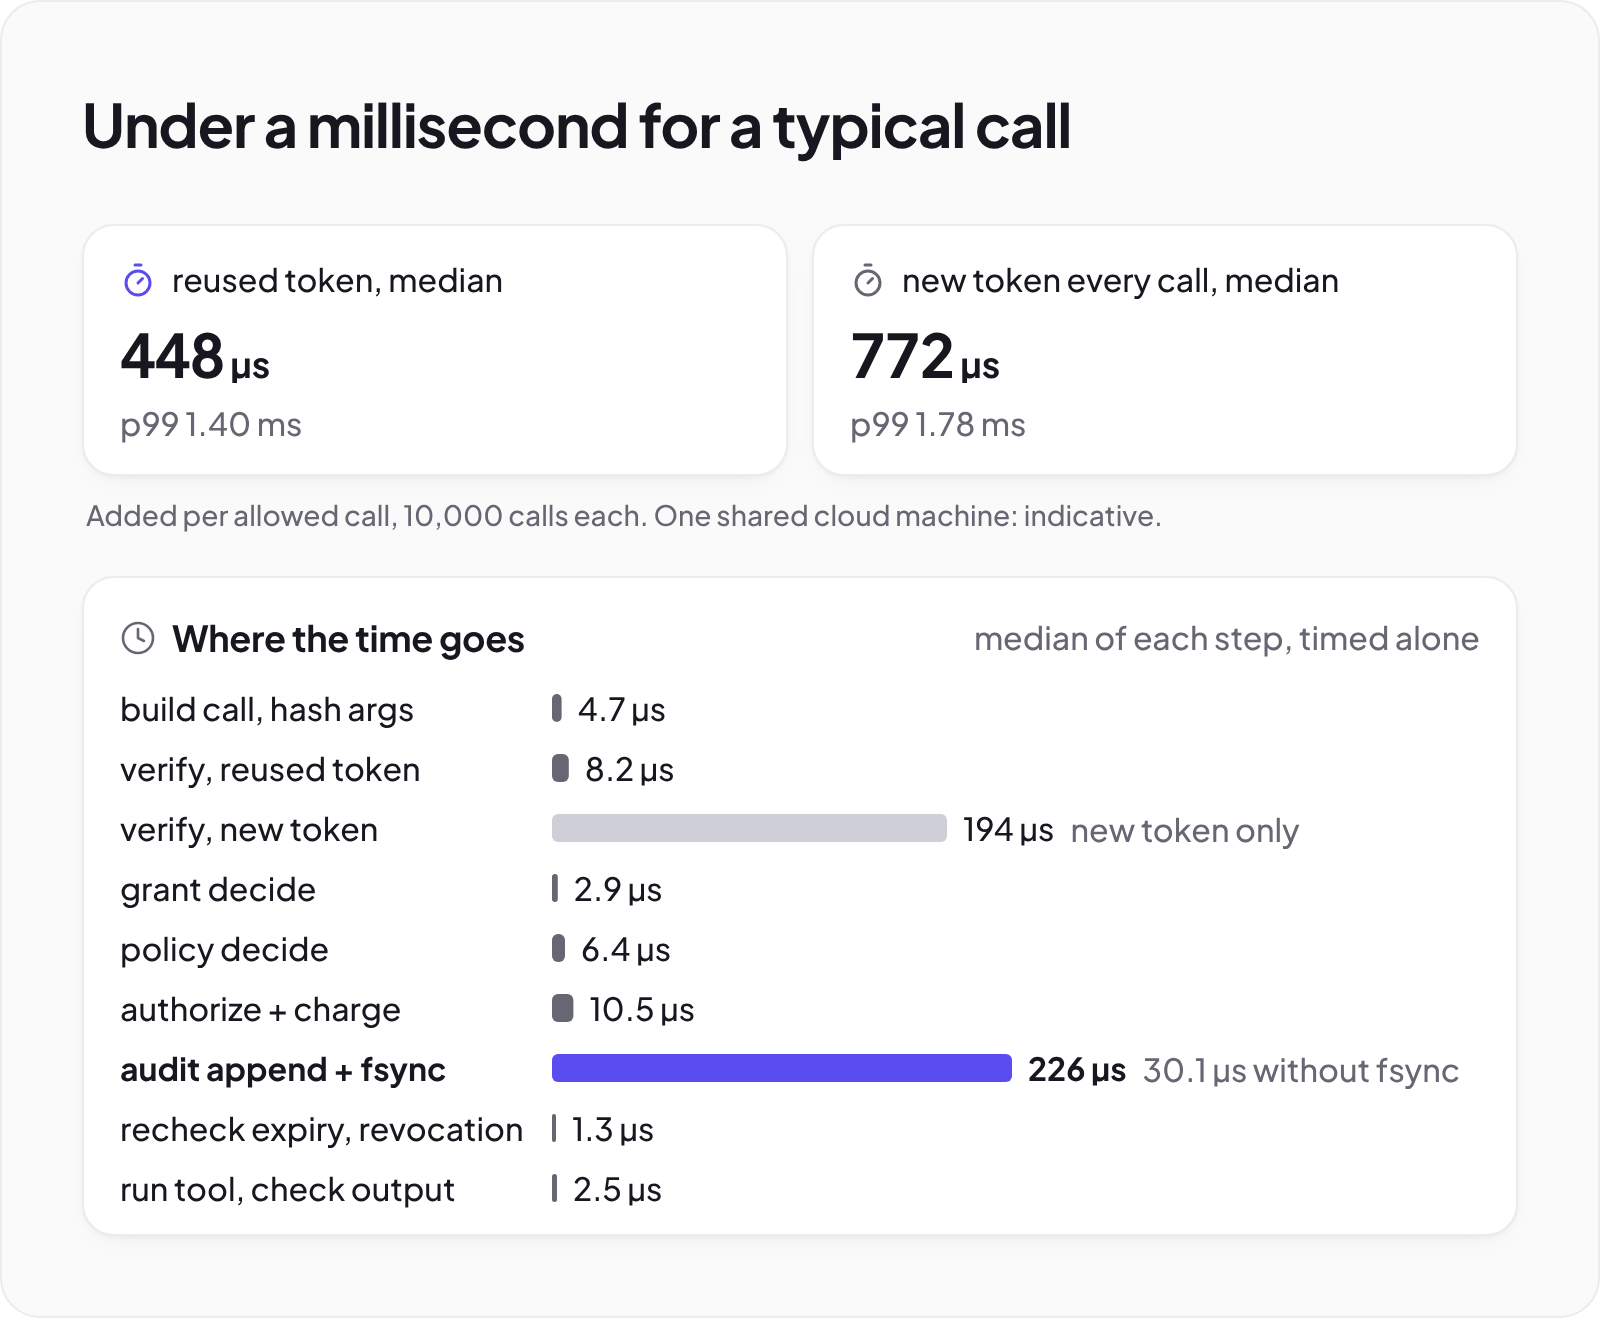
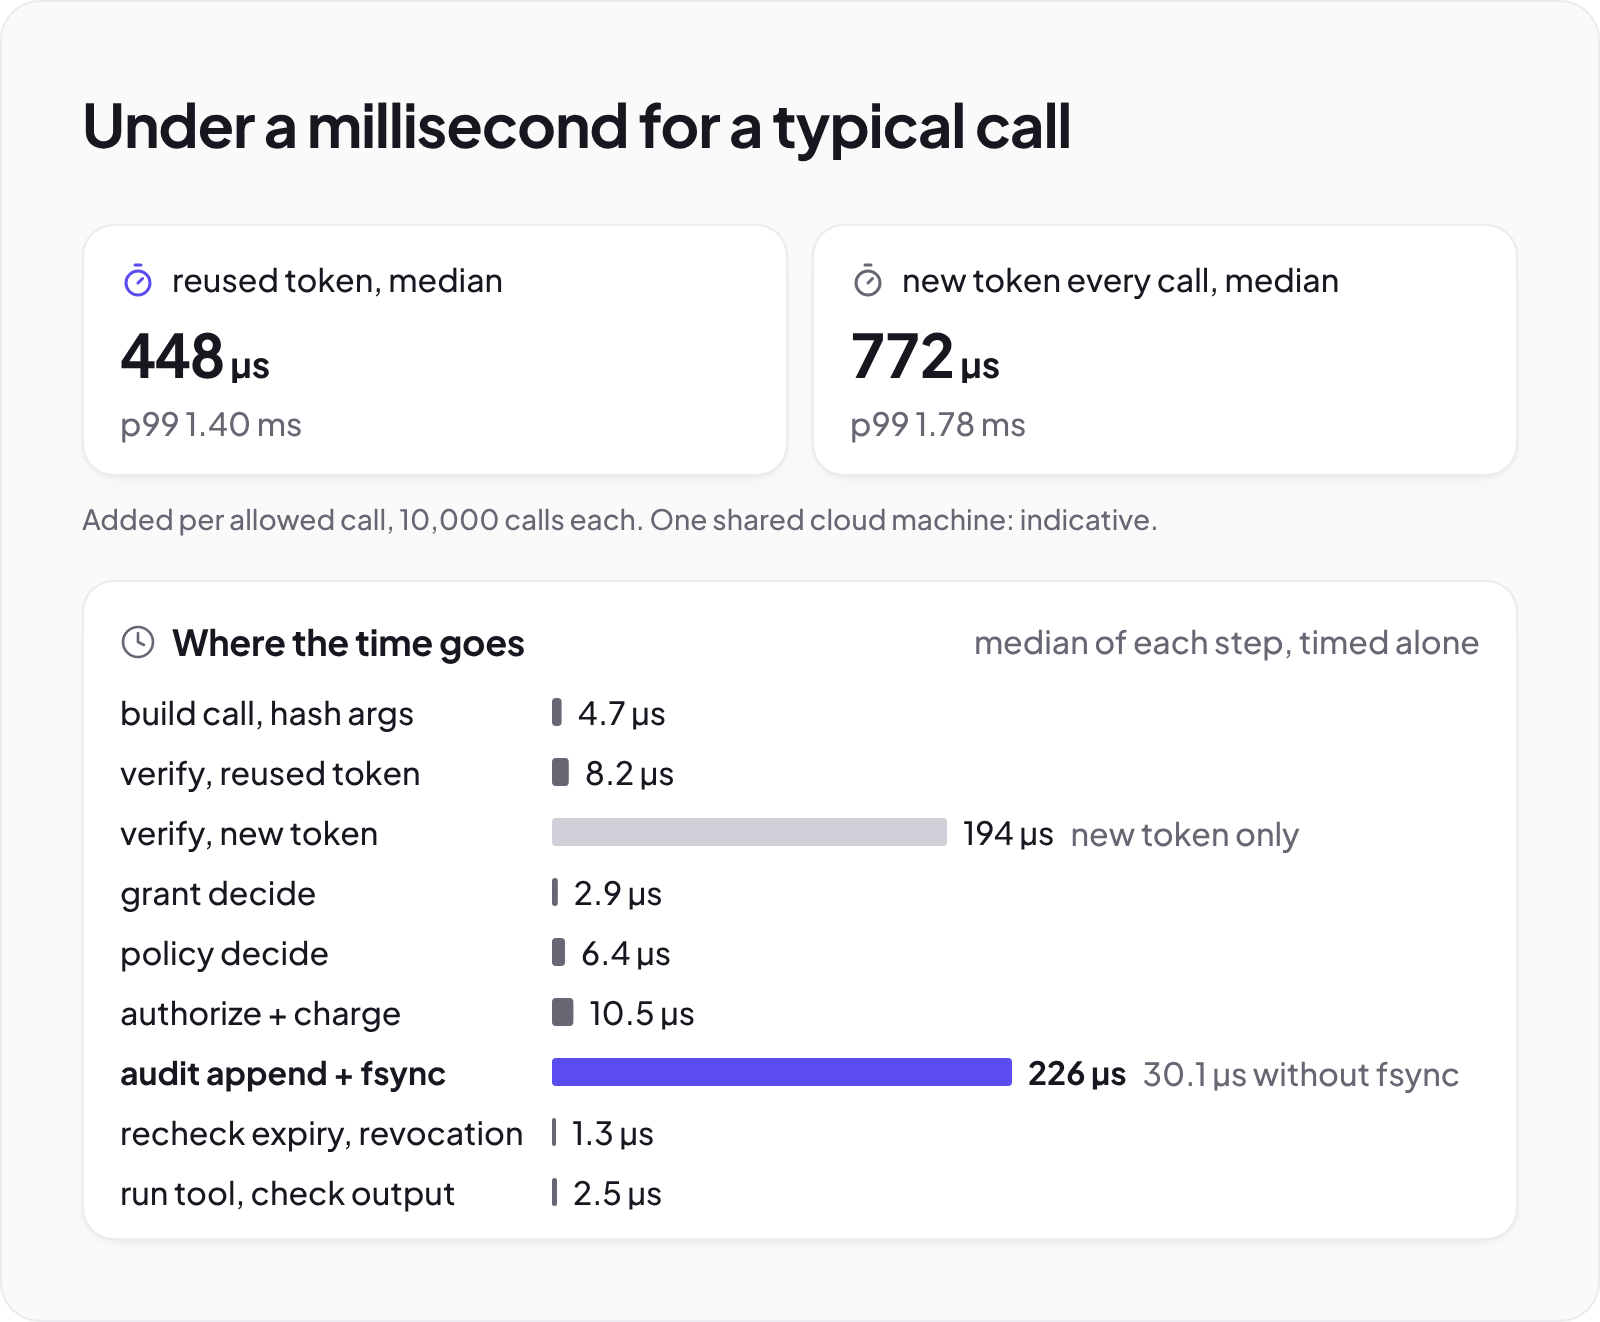
Redesign the completeness, label creep and latency charts; update README for the new figures

diff --git a/scripts/design/charts.css b/scripts/design/charts.css
@@ -20,7 +20,7 @@
 .tile.quiet .num { color: var(--muted); }
 .tile .sub { margin-top: 2px; color: var(--muted); line-height: 20px; white-space: nowrap; }
 
-.tilenote { margin: 10px 2px 0; color: var(--muted); font-size: 14px; line-height: 20px; }
+.tilenote { margin: 12px 0 0; color: var(--muted); font-size: 14px; line-height: 20px; }
 .tilenote + .chartcard, .tilenote + #charts > .chartcard:first-child { margin-top: 20px; }
 
 .chartcard { margin-top: 12px; padding: 18px 18px 16px; }

diff --git a/scripts/fig_label_creep.py b/scripts/fig_label_creep.py
@@ -70,16 +70,20 @@ def chart(rows: list[dict[str, Any]], attacks: int, top_approvals: float) -> str
         mid = y + BAR_H / 2
         parts.append(text(0, mid, row["name"]))
         hits = row["attacks_succeeded"]
+        # A row whose denominator differs from the header says so (value labels:
+        # label creep blocked one injection before it was ever delivered).
+        tried = row["attacks_attempted"]
+        of = "" if tried == attacks else f' <tspan class="quiet">of {tried}</tspan>'
         if hits:
             w = A_ROOM * hits / attacks
             parts.append(bar(A_X, y, w, "var(--no)"))
-            parts.append(text(A_X + w + 8, mid, str(hits)))
+            parts.append(text(A_X + w + 8, mid, f"{hits}{of}"))
         else:  # nothing got through: a check mark and a zero, not an empty row
             parts.append(
                 f'<path class="icon" d="{CHECK}" transform="translate({A_X - 1} {mid - 8}) '
                 f'scale({16 / 24})" stroke="var(--ok)" stroke-width="3.4"/>'
             )
-            parts.append(text(A_X + 22, mid, "0", "ok strong"))
+            parts.append(text(A_X + 22, mid, f"0{of}", "ok strong"))
         asks = row["honest_approvals_mean_per_task"]
         if asks:
             w = B_ROOM * asks / top_approvals
@@ -106,7 +110,7 @@ def view(data: dict[str, Any], scripted: dict[str, Any]) -> dict[str, Any]:
         honest = m5[key]["approvals_requested"]["honest"]
         assert r["honest_approvals_total"] == honest["total"], key
         assert r["honest_approvals_mean_per_task"] == honest["mean_per_task"], key
-        rows.append({**r, "name": name})
+        rows.append({**r, "name": name, "attacks_attempted": m5[key]["attacks_attempted"]})
     attacks = {r["attacks"] for r in rows}
     assert len(attacks) == 1
     tasks = len(scripted["tasks"])

diff --git a/scripts/fig_latency.py b/scripts/fig_latency.py
@@ -80,7 +80,8 @@ def steps_chart(stages: dict[str, Any]) -> str:
         strong = key == "audit_append_fsync"
         parts.append(text(0, mid, label, "strong" if strong else ""))
         parts.append(
-            f'<rect x="{LABEL_W}" y="{y}" width="{w:.1f}" height="{BAR_H}" rx="{min(3.0, w / 2):g}" fill="{color}"/>'
+            f'<rect x="{LABEL_W}" y="{y}" width="{w:.1f}" height="{BAR_H}" '
+            f'rx="{min(2.0, w / 2):g}" fill="{color}"/>'
         )
         note = ""
         if key == "audit_append_fsync":
@@ -88,9 +89,7 @@ def steps_chart(stages: dict[str, Any]) -> str:
             note = f'<tspan class="quiet" dx="8">{fmt_us(off)} without fsync</tspan>'
         elif key == "verify_cold":
             note = '<tspan class="quiet" dx="8">new token only</tspan>'
-        parts.append(
-            text(LABEL_W + w + 8, mid, fmt_us(value) + note, "strong" if strong else "")
-        )
+        parts.append(text(LABEL_W + w + 8, mid, fmt_us(value) + note, "strong" if strong else ""))
     height = (len(rows) - 1) * ROW_H + BAR_H
     body = "".join(parts)
     return (

diff --git a/README.md b/README.md
@@ -73,7 +73,7 @@ The bounds are listed per lemma in the file (for example, the glob prefix lemma 
 
 The check is sound by design and deliberately incomplete. The completeness gap was measured exhaustively on every ordered pair of a 125-constraint universe:
 
-![Completeness gap: for every parent and child operator, how many pairs are safe and accepted, safe but rejected, and unsafe and rejected](assets/completeness_gap.png)
+![Completeness gap: 0 of 14,401 unsafe pairs accepted, 1,016 of 1,224 safe pairs accepted, and the safe-but-rejected gap falling from 576 to 208 with the added rule](assets/completeness_gap.png)
 
 | All 15,625 pairs (`results/m0b_completeness.json`, `exhaustive_constraints`) | Before the star-free rule | After |
 |---|---|---|
@@ -113,13 +113,13 @@ Columns: `attacks_succeeded` of `attacks_attempted`, `benign_utility_honest`, `a
 
 Stronger tracking asks a person more often. Label creep is the reason: once the agent has read untrusted content, every literal it writes is treated as untrusted.
 
-![Label creep: attacks that succeeded and approvals per task for each configuration, and the share of values labeled untrusted by step within a task](assets/label_creep.png)
+![Label creep: for each configuration with a careful approver, attacks that succeeded and approvals asked per task; scripted agents](assets/label_creep.png)
 
-From `results/m4b_label_creep.json`, `configurations.*.by_step`: with session labels, 100% of values are untrusted from the third call of a task on; with value labels the share reaches 85.71% at step 5; with plan-then-execute it stays between 41.67% and 56.92% after step 1. Scripted agents, scripted planner and scripted extractor.
+The figure shows the protection and approval numbers above. From `results/m4b_label_creep.json`, `configurations.*.by_step`: with session labels, 100% of values are untrusted from the third call of a task on; with value labels the share reaches 85.71% at step 5; with plan-then-execute it stays between 41.67% and 56.92% after step 1. Scripted agents, scripted planner and scripted extractor.
 
-![Provenance graph of task misuse-04 under value labels: every argument and result colored by its sources, with the injected fetch blocked by rule deny-non-public-data-in-url](assets/provenance_graph.png)
+![Provenance graph of task misuse-04: a request from the user, an untrusted web page and a private file; the injected fetch that would put the file into a URL is blocked by rule deny-non-public-data-in-url](assets/provenance_graph.png)
 
-One class d attack (task misuse-04: leak the budget through the URL of a fetch to an allowed host), hijacked scripted agent, value labels. Every label drawn is the one the gateway recorded (`results/m4b_provenance_graph.json`): the injected fetch is denied by `deny-non-public-data-in-url`, and the later legitimate fetch is denied too, which is label creep in one picture.
+One class d attack (task misuse-04: leak the budget through the URL of a fetch to an allowed host), hijacked scripted agent, value labels. Every label drawn is the one the gateway recorded (`results/m4b_provenance_graph.json`): the injected fetch is denied by `deny-non-public-data-in-url`. The figure shows only the nodes of that story; the full graph, including a later legitimate fetch that the same rule also denied (label creep), is in the JSON.
 
 ### 3. Cost
 
@@ -136,9 +136,9 @@ Components timed alone (`stages.*.p50_us`): cold verify 193.8 us, of which the E
 
 Throughput (`throughput`): in-process, one thread, warm, 1,768.3 calls/s with fsync and 7,148.6 without; cold with fsync 1,221.9. Over HTTP to the FastAPI app on one uvicorn process on localhost, 341.9 calls/s with 1 client (p50 2,835 us) and 619.2 with 16 clients. Through the MCP proxy, the median `tools/call` was 3,990 us slower than the same call made directly to the upstream (`mcp_proxy.added_p50_us`, a difference of medians).
 
-![Latency histograms of warm and cold calls with p50 and p99 marked, and the median of each pipeline component](assets/latency.png)
+![Latency: median added time per allowed call for a reused and a new token, and the median of each pipeline step, with the audit fsync the largest](assets/latency.png)
 
-Caveat: one shared cloud container (Intel Xeon at 2.10 GHz, 4 logical cores, ext4 temp directory), not isolated from other tenants. The numbers are indicative, vary from run to run, and the latency figure changes every time it is regenerated (the only other figures that do are the dashboard screenshots, which show wall-clock times). Nothing here is compared with any other system. fsync cost depends entirely on the disk.
+Caveat: one shared cloud container (Intel Xeon at 2.10 GHz, 4 logical cores, ext4 temp directory), not isolated from other tenants. The numbers are indicative, vary from run to run, and so does the latency figure drawn from them (given the same results file it renders identically). Nothing here is compared with any other system. fsync cost depends entirely on the disk.
 
 ### 4. Delegation, offline tokens, audit and dashboard
 
@@ -146,11 +146,11 @@ Caveat: one shared cloud container (Intel Xeon at 2.10 GHz, 4 logical cores, ext
 
 Every arrow is a real `check_attenuation` call: three narrower children are accepted and a request for `read_file(path ~ *)` is rejected (`results/m0_delegation_tree.json`).
 
-![Token chain: an HMAC token gains three caveats offline, each changing the signature, and a token with the last caveat removed fails verification](assets/token_chain.png)
+![Token chain: an HMAC token gains three restrictions offline, each changing the signature; a copy with the last restriction removed fails verification](assets/token_chain.png)
 
 A holder narrows an HMAC chain token offline with no key; removing a caveat fails with "signature mismatch" because HMAC cannot be run backwards (`results/m1b_token_chain.json`).
 
-![Audit chain: an 8-entry log verifies, and a copy with one field of entry 3 changed fails verification at entry 3](assets/audit_tamper.png)
+![Audit chain: an 8-entry log verifies; a copy with entry 3's decision changed fails verification at entry 3](assets/audit_tamper.png)
 
 Changing one field of entry 3 in a copy of a real 8-entry log makes `verify` report entry 3 as the first bad entry (`results/m2_audit_tamper.json`).
 
@@ -235,27 +235,27 @@ The admin API is mounted under `/admin` on the same port. Audit logs can be chec
 ## Reproducing every number
 
 ```bash
-bash scripts/reproduce_all.sh      # several minutes; the dashboard step needs Chromium and Playwright
+bash scripts/reproduce_all.sh      # several minutes; figures are HTML pages rendered by headless Chromium (Node Playwright)
 ```
 
 | Script | Writes |
 |---|---|
 | `scripts/m0_invariant.py` | `results/m0_invariant.json` |
-| `scripts/fig_delegation_tree.py` | `results/m0_delegation_tree.json`, `assets/delegation_tree.*` |
+| `scripts/fig_delegation_tree.py` | `results/m0_delegation_tree.json`, `assets/delegation_tree.png` |
 | `scripts/m0b_prove_rules.py` | `results/m0b_rules.json` |
 | `scripts/m0b_completeness.py` (a few minutes) | `results/m0b_completeness.json` |
-| `scripts/fig_completeness_gap.py` | `assets/completeness_gap.*` |
+| `scripts/fig_completeness_gap.py` | `assets/completeness_gap.png` |
 | `scripts/m1_demo.py` | `results/m1_demo.json` |
-| `scripts/fig_token_chain.py` | `results/m1b_token_chain.json`, `assets/token_chain.*` |
-| `scripts/fig_audit_tamper.py` | `results/m2_audit_tamper.json`, `assets/audit_tamper.*` |
+| `scripts/fig_token_chain.py` | `results/m1b_token_chain.json`, `assets/token_chain.png` |
+| `scripts/fig_audit_tamper.py` | `results/m2_audit_tamper.json`, `assets/audit_tamper.png` |
 | `scripts/demo_gateway.py` | `results/m3_demo.json` |
 | `scripts/demo_mcp_proxy.py` | `results/m4_demo.json` |
 | `scripts/m5_scripted_eval.py` | `results/m5_scripted.json` |
-| `scripts/fig_label_creep.py` | `results/m4b_label_creep.json`, `assets/label_creep.*` |
-| `scripts/fig_provenance_graph.py` | `results/m4b_provenance_graph.json`, `assets/provenance_graph.*` |
+| `scripts/fig_label_creep.py` | `results/m4b_label_creep.json`, `assets/label_creep.png` |
+| `scripts/fig_provenance_graph.py` | `results/m4b_provenance_graph.json`, `assets/provenance_graph.png` |
 | `scripts/fig_hero.py` | `results/m6_hero.json`, `assets/hero.gif`, `assets/hero_poster.png` |
 | `scripts/bench_latency.py` (a few minutes) | `results/m6_latency.json` |
-| `scripts/fig_latency.py` | `assets/latency.*` |
+| `scripts/fig_latency.py` | `assets/latency.png` |
 | `scripts/fig_dashboard.py` | `assets/dashboard.png`, `assets/dashboard_tamper.png` |
 
 Seeds, clocks and ids are fixed, so every file except `m6_latency.json`, the latency figure and the dashboard screenshots is identical byte for byte on a rerun.
